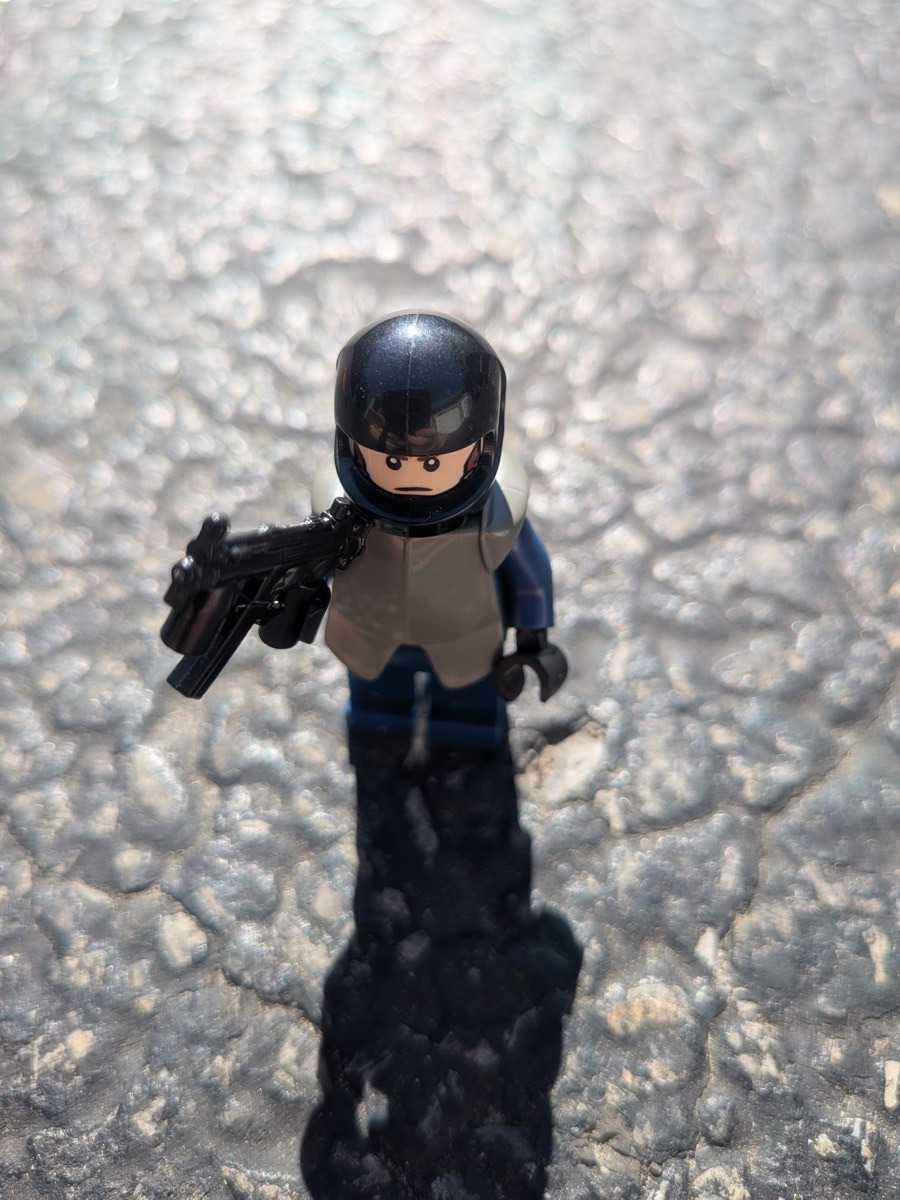
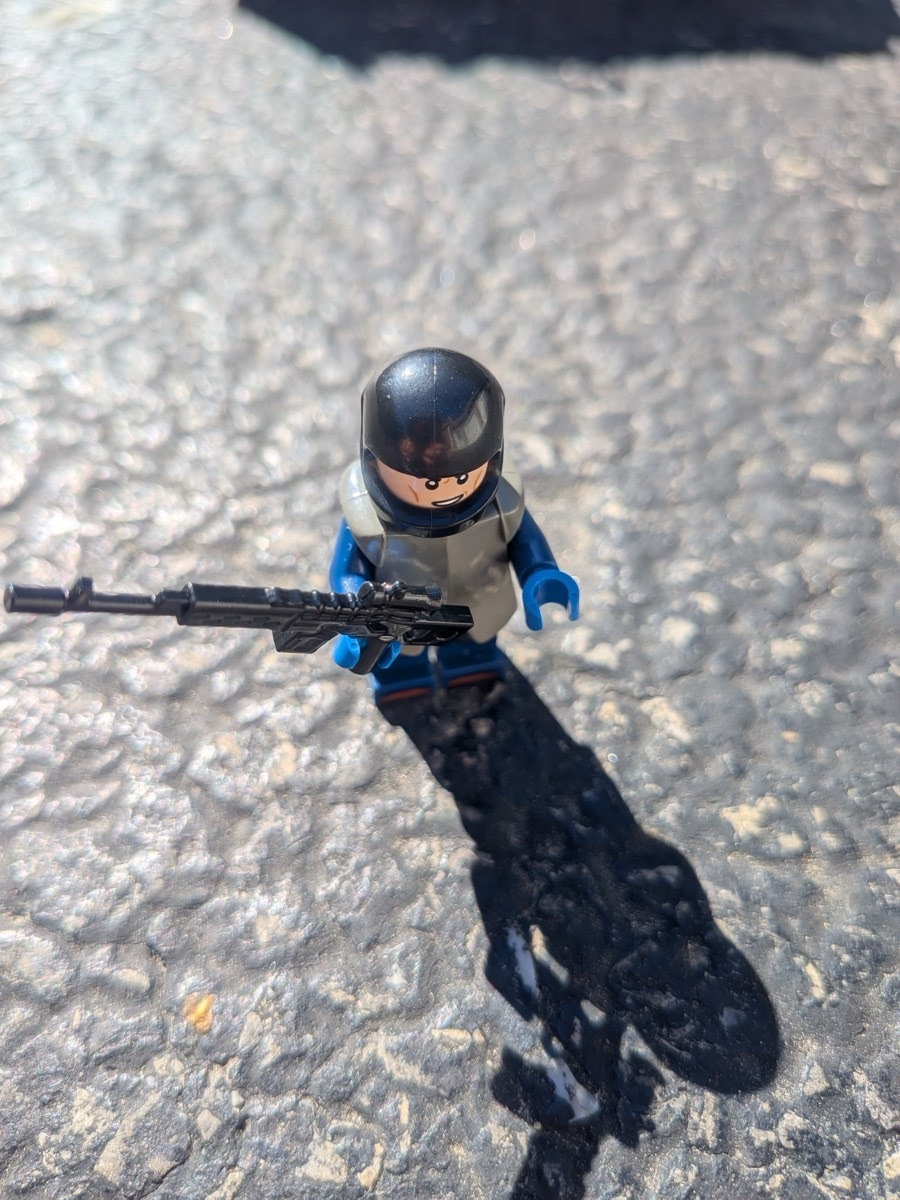
swat truck: two new street scene shots as first frames

diff --git a/assets/js/builds.js b/assets/js/builds.js
@@ -7,6 +7,6 @@ window.BUILDS = [
   {
     "id": "build1",
     "name": "SWAT Truck",
-    "totalFrames": 13
+    "totalFrames": 15
   }
 ];
